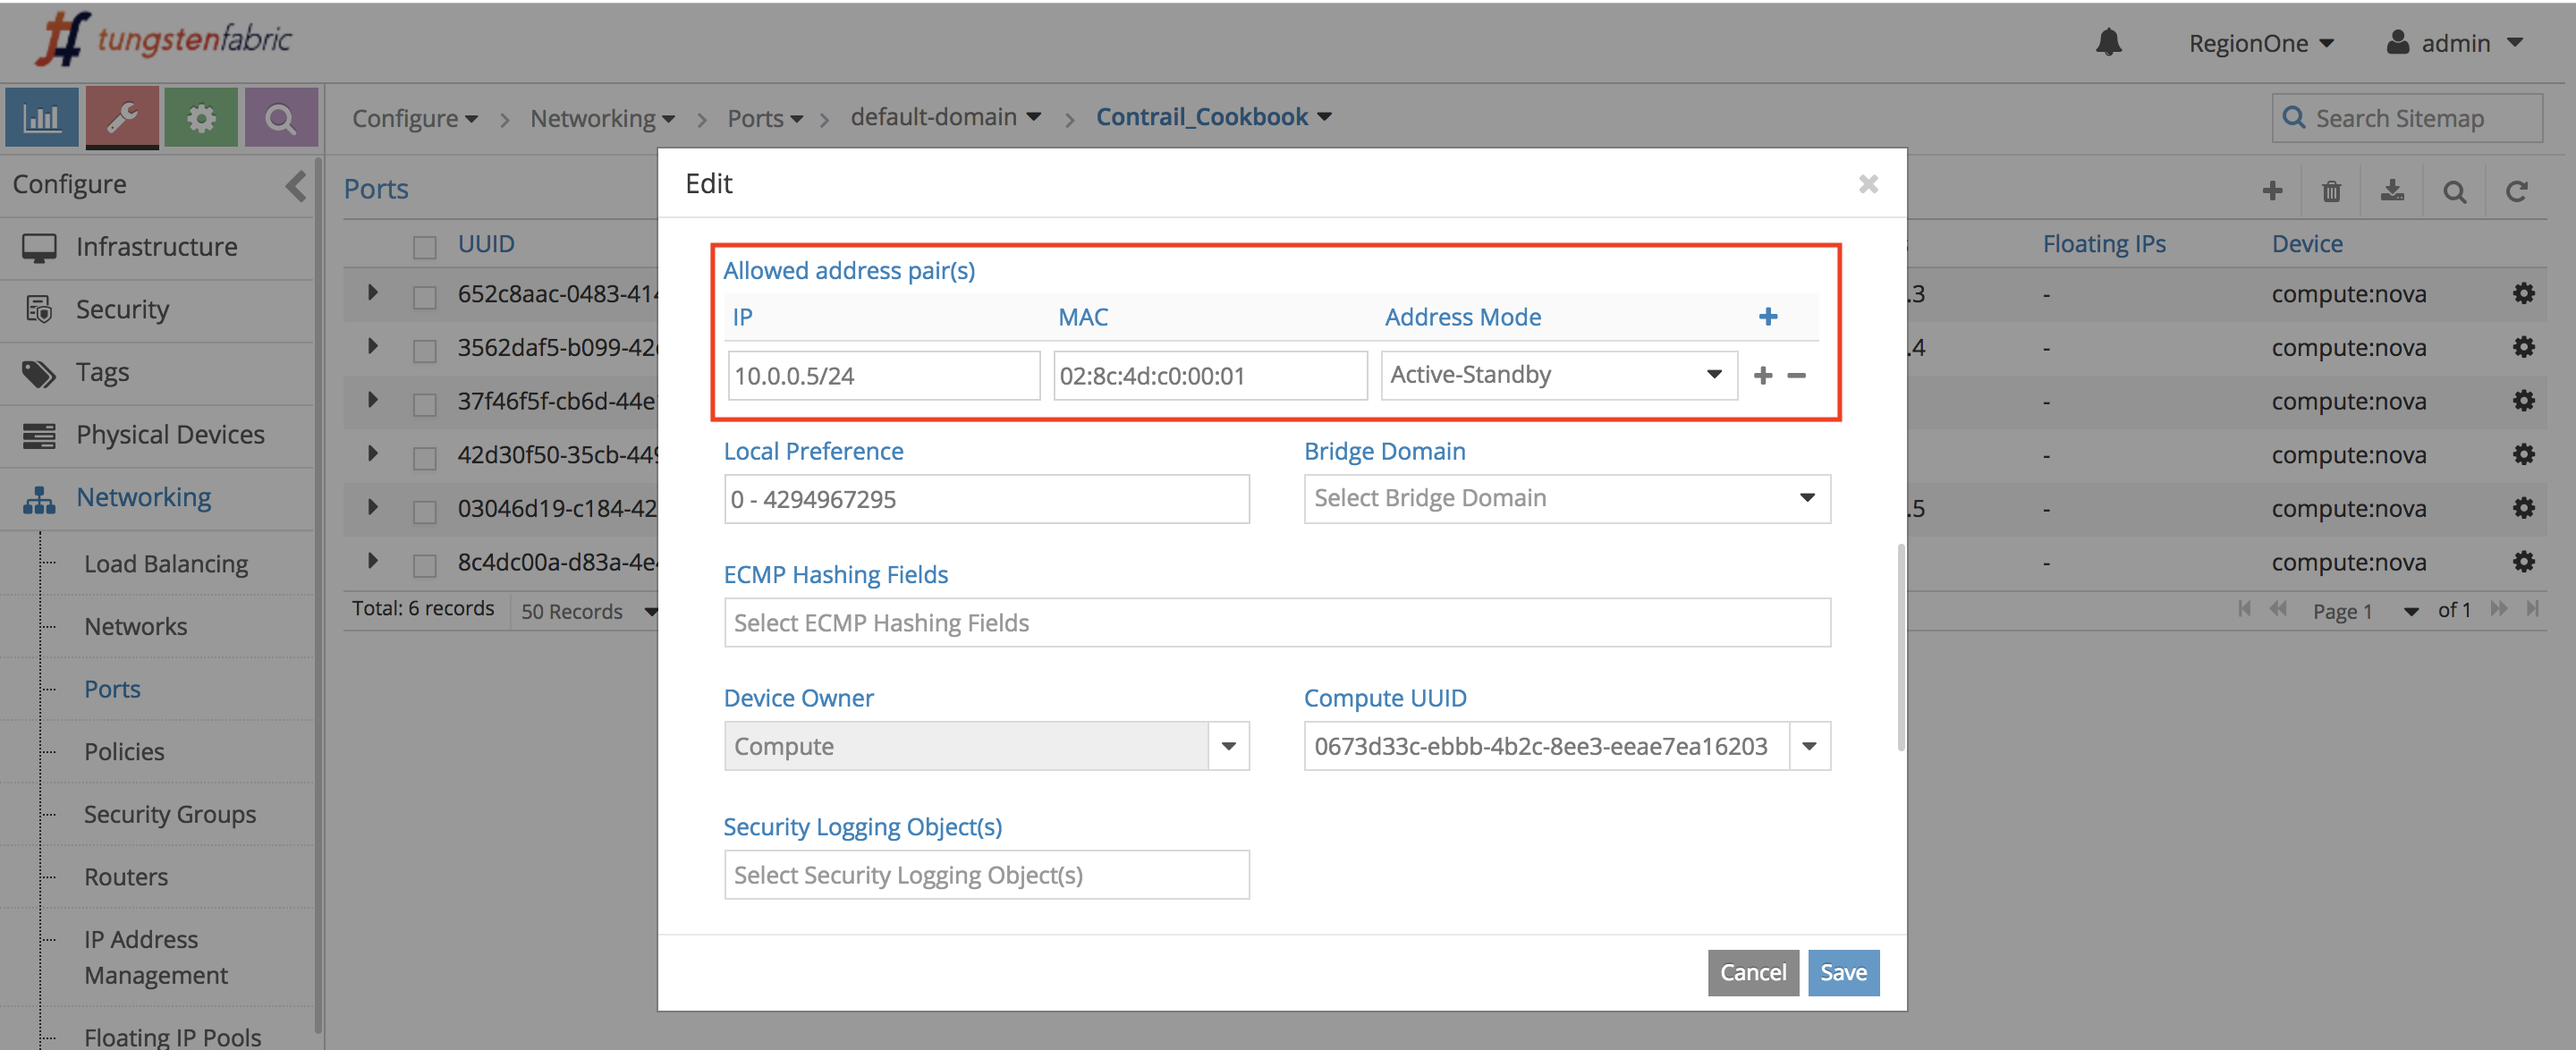
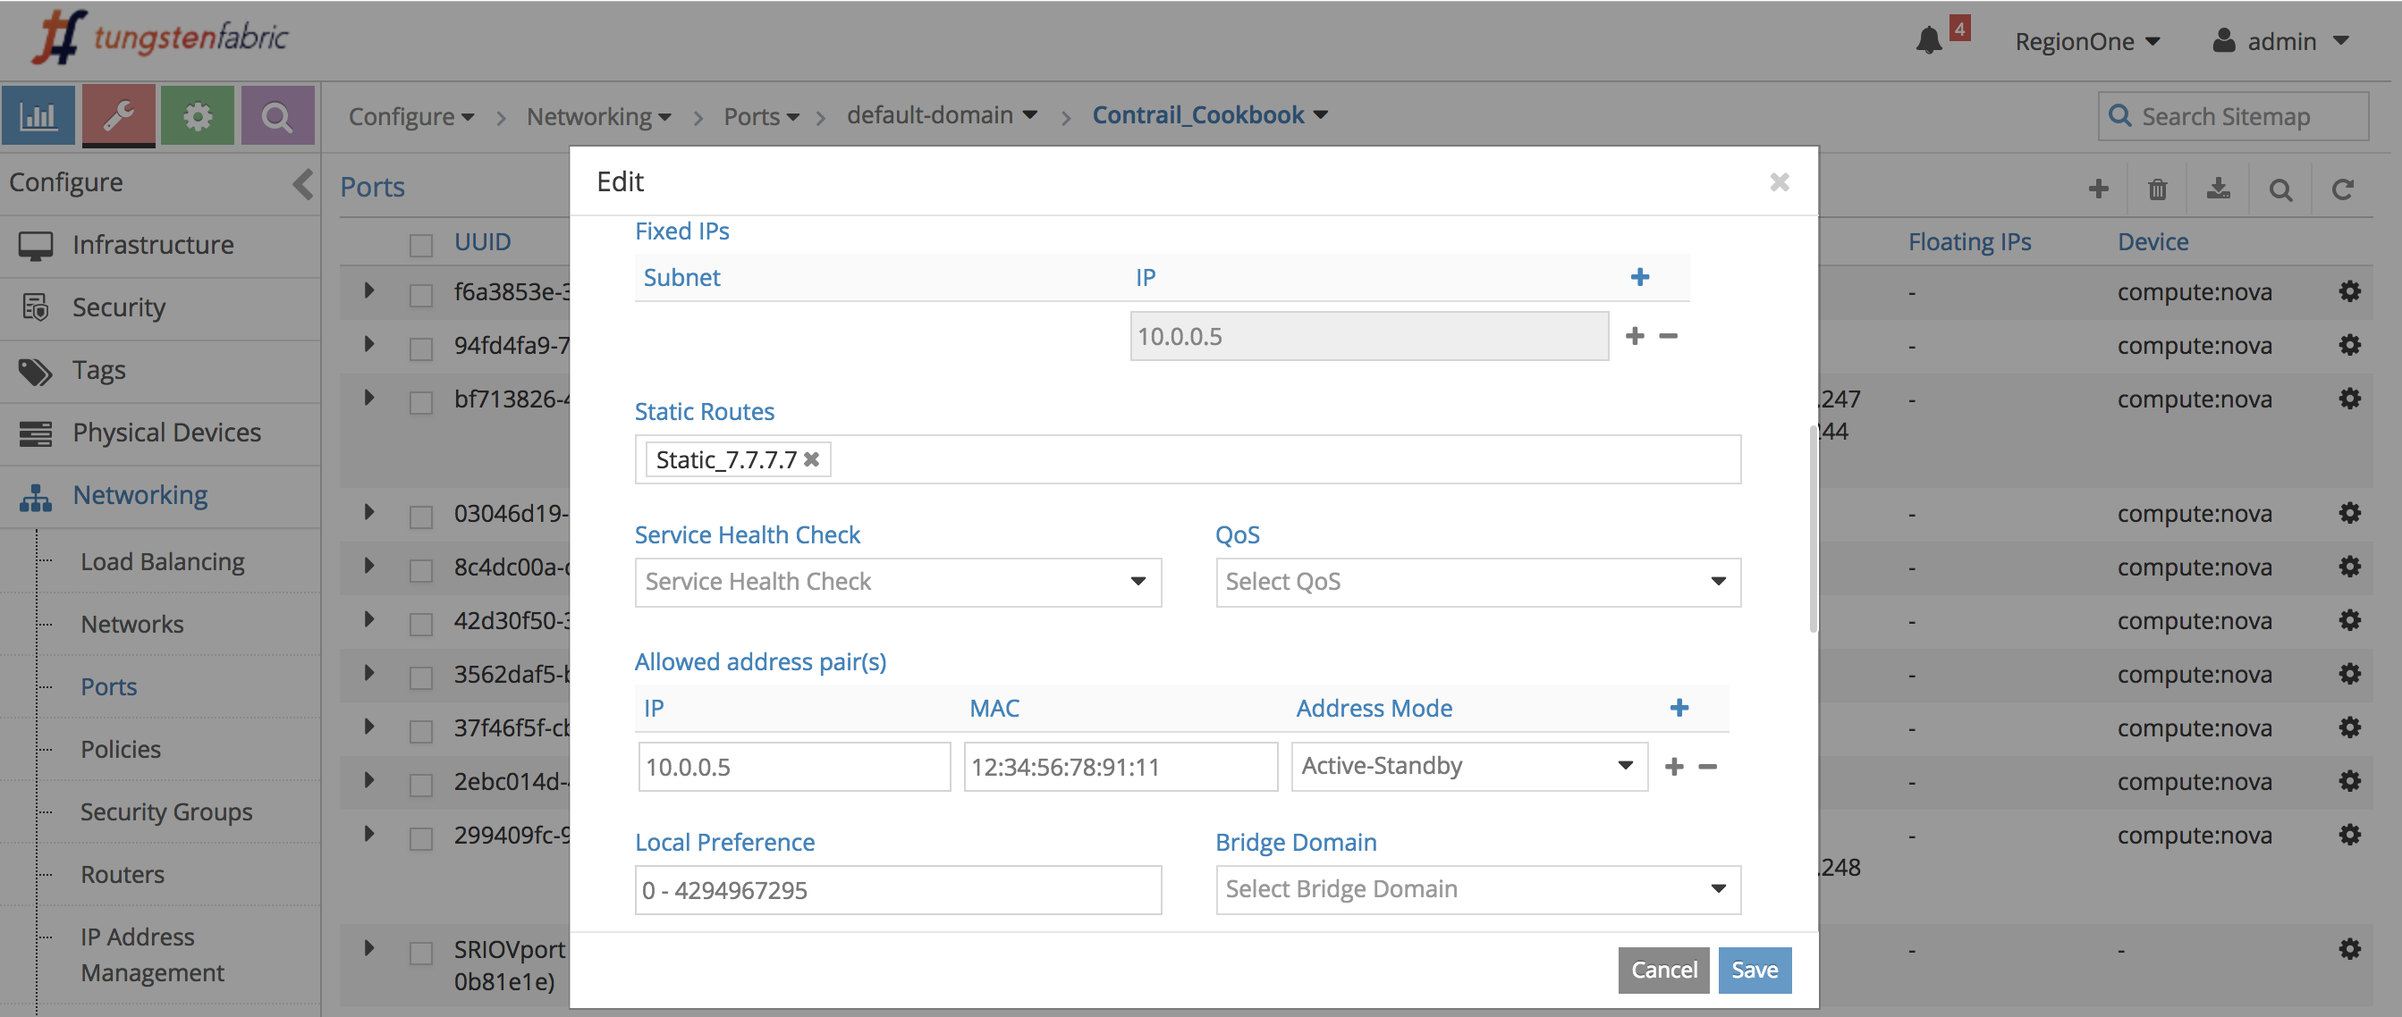
c

diff --git a/docs/index.md b/docs/index.md
@@ -201,20 +201,31 @@ _L2-only allows this scenario without extra AAP and this is shown later._
 
 _This is a corner case and most of the time the result of bad VNF implementation._ 
 
-Here we have manually set on vSRX_5 a new mac@ 02:8c:4d:c0:00:01 but keep initial IP@ 10.0.0.5. So as explained before, because Contrail knows the IP@ and Mac@ bindings via OpenStack, this Mac@ will be unknown.
+Here we have manually set on vSRX_5 a new mac@ 12:34:56:78:91:11 but keep initial IP@ 10.0.0.5. So as explained before, because Contrail knows the IP@ and Mac@ bindings via OpenStack, this Mac@ will be unknown.
 
-Below we see resolution of mac@ for 10.0.0.5, the arp is flooded, and vSRX_5 answers back with 02:8c:4d:c0:00:01. vSRX_3 sends ping but dropped since unknown mac for 10.0.0.5.
+ARP cache table cleared on both vSRX_3 and vSRX_5.
 
+Below we see resolution of mac@ for 10.0.0.5 from compute 7 hosting vSRX_3. vRouter acts as a proxy and answers back with the known mac@ 02:8c:4d:c0:0a:d8. The ICMP echo request is sent to 02:8c:4d:c0:0a:d8, no reply comes back. 
 
-![Screenshot](img/virtual_networks/VR-L2-unknownmac.png)
+![Screenshot](img/virtual_networks/VR-L2-L3-unknownmac.png)
 
-A workaround to make it work is to define the new mac@ via AAP on the vSRX_5 port.
+Below it is from compute 8 hosting vSRX_5. First of all, it proves that the arp request has been intercepted by compute 7 since no arp request from vSRX_3. Then we notice the ICMP echo, but no reply. vSRX_5 is sending arp request for vSRX_3 but with an unknown mac address as source, so vRouter never replies. 
+
+![Screenshot](img/virtual_networks/VR-L2-L3-unknownmac1.png)
+
+A workaround to make it work is to define the new mac@ via AAP on the vSRX_5 port. ARP cache table cleared on both vSRX_3 and vSRX_5.
 
 ![Screenshot](img/virtual_networks/VR-L2L3-unkownmacAAP.png)
 
+Below, the sequence on compute 7 hosting vSRX_3 is same as before. vRouter acts as a proxy and answers back with the known mac@ 02:8c:4d:c0:0a:d8. The ICMP echo request is sent to 02:8c:4d:c0:0a:d8, and this time it has echo reply with source mac@ 12:34:56:78:91:11. 
+
 ![Screenshot](img/virtual_networks/VR-L2L3-unkownmacAAPtrace.png)
 
-_L2-only allows this scenario without extra AAP and this is shown later._ 
+Below it is from compute 8 hosting vSRX_5. First of all, it proves that the arp request has been intercepted by compute 7 since no arp request from vSRX_3. vSRX_5 is sending arp request for vSRX_3, and vRouter act as proxy and this time answering back the ARP request. Then vSRX_5 is sending the echo reply with source mac@ 12:34:56:78:91:11.
+
+![Screenshot](img/virtual_networks/VR-L2L3-unkownmacAAPtrace1.png)
+
+_Note: L2-only allows this scenario without extra AAP and this is shown later._ 
 
 ##### L2 only
 
@@ -255,9 +266,11 @@ Below the mac@ of IP@ 10.0.0.12/32 is resolved and ICMP packets are going throug
 
 _This is a corner case and most of the time the result of bad VNF implementation._ 
 
-Here we have manually set on vSRX_5 a new mac@ 02:8c:4d:c0:00:01 but keep initial IP@ 10.0.0.5. So as explained before, because Contrail knows the IP@ and Mac@ bindings via OpenStack, this Mac@ will be unknown.
+Here we have manually set on vSRX_5 a new mac@ 12:34:56:78:91:11 but keep initial IP@ 10.0.0.5. So as explained before, because Contrail knows the IP@ and Mac@ bindings via OpenStack, this Mac@ will be unknown.
 
-Below we see resolution of mac@ for 10.0.0.5 with 02:8c:4d:c0:00:01. However only ICMP echo goes through. vRouter is dropping packet since seeing an unknown mac@.
+ARP cache table cleared on both vSRX_3 and vSRX_5.
+
+
 
 ![Screenshot](img/virtual_networks/VR-L2-unknownmac.png)
 
